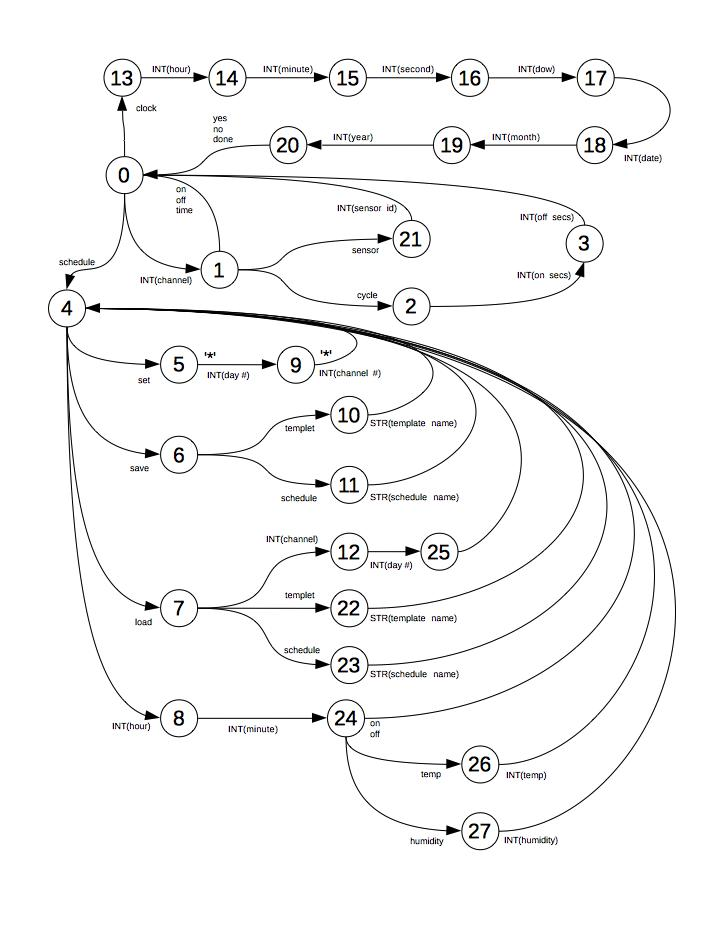
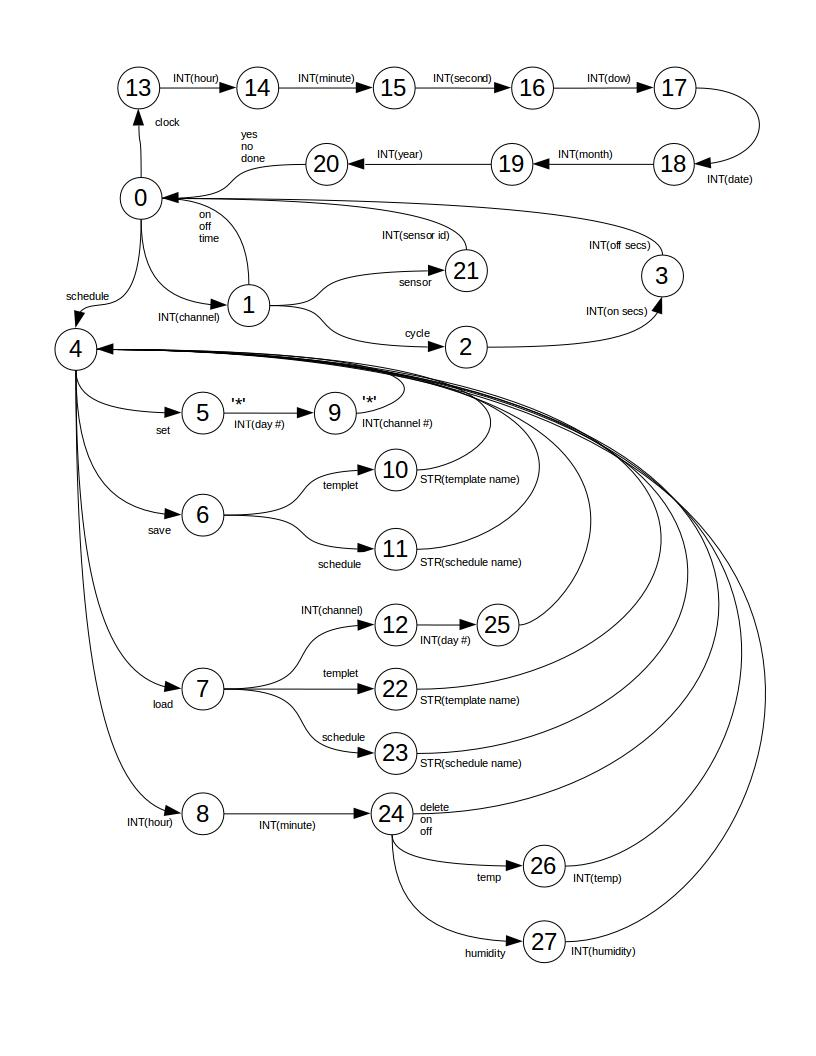
schedule maint mostly working

diff --git a/BBB/lib-sources/cmd_fsm.c b/BBB/lib-sources/cmd_fsm.c
@@ -176,31 +176,31 @@ char    *keyword[_CMD_TOKENS] = {
 /* cmd processor state transition table */
 int cmd_new_state[_CMD_TOKENS][_CMD_STATES] = {
 	/*                       0   1   2   3   4   5   6   7   8   9  10  11  12  13  14  15  16  17  18  19  20  21  22  23  24  25  26  27*/
-	/*  0  temp        */  { 0,  1,  2,  3,  4,  5,  6,  7,  8,  0,  0,  0,  0, 13,  0,  0,  0,  0,  0,  0,  0, 21,  0,  0, 26,  0,  0,  0},
-	/*  1  *           */  { 0,  1,  2,  3,  4,  5,  6,  8,  9,  0,  0,  0,  0, 13,  0,  0,  0,  0,  0,  0,  0, 21,  0,  0, 27,  0,  0, 27},
-	/*  2  humid       */  { 0,  1,  2,  3,  4,  0,  0,  0,  8,  0,  0,  0,  0, 13,  0,  0,  0,  0,  0,  0,  0, 21,  0,  0,  0,  0,  0,  0},
-	/*  3  schedule    */  { 4,  1,  2,  3,  4,  0,  0,  0,  8,  0,  0,  0,  0, 13,  0,  0,  0,  0,  0,  0,  0, 21,  0,  0,  0,  0,  0, 27},
+	/*  0  temp        */  { 0,  1,  2,  3,  4,  5,  6,  7,  8,  0,  0,  0,  0, 13,  0,  0,  0,  0,  0,  0,  0, 21,  0,  0, 26,  0, 26, 27},
+	/*  1  *           */  { 0,  1,  2,  3,  4,  5,  6,  8,  9,  0,  0,  0,  0, 13,  0,  0,  0,  0,  0,  0,  0, 21,  0,  0, 24,  0, 26, 27},
+	/*  2  humid       */  { 0,  1,  2,  3,  4,  0,  0,  0,  8,  0,  0,  0,  0, 13,  0,  0,  0,  0,  0,  0,  0, 21,  0,  0, 27,  0, 26, 27},
+	/*  3  schedule    */  { 4,  1,  2,  3,  4,  0,  0,  0,  8,  0,  0,  0,  0, 13,  0,  0,  0,  0,  0,  0,  0, 21,  0,  0, 24,  0, 26, 27},
 	/*  4  ?           */  { 0,  1,  2,  3,  4,  5,  6,  7,  8,  9, 10, 11, 12, 13, 14, 15, 16, 17, 18, 19, 20, 21, 22, 23, 24, 25, 26, 27},
 	/*  5  clock       */  {13,  1,  2,  3,  4,  5,  6,  7,  8,  9, 10, 11, 12, 13, 14, 15, 16, 17, 18, 19, 20, 21, 22, 23, 24, 25, 26, 27},
-	/*  6  yes         */  { 0,  1,  0,  3,  4,  4,  4,  0,  0,  0,  0,  6,  4, 13,  0,  0,  0,  0,  0,  0,  0, 21,  0,  0,  0,  0,  0, 27},
-	/*  7  cancel      */  { 0,  0,  0,  0,  0,  0,  4,  4,  7,  0,  0,  0,  4,  0,  0,  0,  0,  0,  0,  0,  0,  0,  0,  0,  0,  0,  0,  0},
-	/*  8  replace     */  { 0,  1,  2,  3,  4,  5,  6,  0,  8,  0,  0,  0,  0, 13,  0,  0,  0,  0,  0,  0,  0, 21,  0,  0,  0,  0,  0,  0},
-	/*  9  edit        */  { 0,  1,  2,  3,  4,  5,  6,  7,  8,  0,  0,  0,  0, 13,  0,  0,  0,  0,  0,  0,  0, 21,  0,  0,  0,  0,  0,  0},
-	/* 10  delete      */  { 0,  1,  2,  3,  4,  5,  4,  7,  8,  0,  0,  0,  6, 13,  0,  0,  0,  0,  0,  0,  0, 21,  0,  0,  4,  0,  0,  0},
-	/* 11  zero        */  { 0,  1,  2,  3,  4,  5,  6,  7,  8,  0,  0,  0,  0, 13,  0,  0,  0,  0,  0,  0,  0, 21,  0,  0,  0,  0,  0,  0},
-	/* 12  on          */  { 0,  0,  2,  3,  4,  5,  6,  7,  8,  0,  0,  0,  6, 13,  0,  0,  0,  0,  0,  0,  0, 21,  0,  0,  4,  0,  0,  0},
-	/* 13  off         */  { 0,  0,  2,  3,  4,  5,  6,  7,  8,  0,  0,  0,  6, 13,  0,  0,  0,  0,  0,  0,  0, 21,  0,  0,  4,  0,  0,  0},
-	/* 14  clear       */  { 0,  1,  2,  3,  4,  5,  6,  7,  8,  0,  0,  0,  0, 13,  0,  0,  0,  0,  0,  0,  0, 21,  0,  0,  0,  0,  0,  0},
+	/*  6  yes         */  { 0,  1,  0,  3,  4,  4,  4,  0,  0,  0,  0,  6,  4, 13,  0,  0,  0,  0,  0,  0,  0, 21,  0,  0, 24,  0, 26, 27},
+	/*  7  cancel      */  { 0,  0,  0,  0,  0,  0,  4,  4,  4,  4,  4,  4,  4,  0,  0,  0,  0,  0,  0,  0,  0,  0,  0,  0,  8,  0,  8,  8},
+	/*  8  replace     */  { 0,  1,  2,  3,  4,  5,  6,  0,  8,  0,  0,  0,  0, 13,  0,  0,  0,  0,  0,  0,  0, 21,  0,  0, 24,  0, 26, 27},
+	/*  9  edit        */  { 0,  1,  2,  3,  4,  5,  6,  7,  8,  0,  0,  0,  0, 13,  0,  0,  0,  0,  0,  0,  0, 21,  0,  0, 24,  0, 26, 27},
+	/* 10  delete      */  { 0,  1,  2,  3,  4,  5,  4,  7,  8,  0,  0,  0,  6, 13,  0,  0,  0,  0,  0,  0,  0, 21,  0,  0,  4,  0, 26, 27},
+	/* 11  zero        */  { 0,  1,  2,  3,  4,  5,  6,  7,  8,  0,  0,  0,  0, 13,  0,  0,  0,  0,  0,  0,  0, 21,  0,  0, 24,  0, 26, 27},
+	/* 12  on          */  { 0,  0,  2,  3,  4,  5,  6,  7,  8,  0,  0,  0,  6, 13,  0,  0,  0,  0,  0,  0,  0, 21,  0,  0,  4,  0, 26, 27},
+	/* 13  off         */  { 0,  0,  2,  3,  4,  5,  6,  7,  8,  0,  0,  0,  6, 13,  0,  0,  0,  0,  0,  0,  0, 21,  0,  0,  4,  0, 26, 27},
+	/* 14  clear       */  { 0,  1,  2,  3,  4,  5,  6,  7,  8,  0,  0,  0,  0, 13,  0,  0,  0,  0,  0,  0,  0, 21,  0,  0, 24,  0, 26, 27},
 	/* 15  status      */  { 0,  1,  2,  3,  4,  5,  6,  7,  8,  9, 10, 11, 12, 13, 14, 15, 16, 17, 18, 19, 20, 21, 22, 23, 24, 25, 26, 27},
 	/* 16  time        */  { 0,  1,  2,  3,  4,  5,  6,  7,  8,  9, 10, 11, 12, 13, 14, 15, 16, 17, 18, 19, 20, 21, 22, 23, 24, 25, 26, 27},
-	/* 17  sensor      */  { 0, 21,  2,  3,  4,  5,  6,  7,  8,  0,  0,  0,  0, 13,  0,  0,  0,  0,  0,  0,  0, 21,  0,  0,  0,  0,  0,  0},
-	/* 18  cycle       */  { 0,  2,  2,  3,  4,  5,  6,  7,  8,  0,  0,  0,  0, 13,  0,  0,  0,  0,  0,  0,  0, 21,  0,  0,  0,  0,  0,  0},
-	/* 19  startup     */  { 0,  1,  2,  3,  4,  5,  6,  7,  8,  0,  0,  0,  0, 13,  0,  0,  0,  0,  0,  0,  0, 21,  0,  0,  0,  0,  0,  0},
-	/* 20  display     */  { 0,  1,  2,  3,  4,  5,  6,  7,  8,  0,  0,  0,  0, 13,  0,  0,  0,  0,  0,  0,  0, 21,  0,  0,  0,  0,  0,  0},
-	/* 21  save        */  { 6,  1,  2,  3,  4,  5,  4,  5,  8,  0,  0,  0,  0, 13,  0,  0,  0,  0,  0,  0,  0, 21,  0,  0,  0,  0,  0,  0},
-	/* 22  template    */  { 0,  1,  2,  3,  4,  5,  6,  7,  8,  0,  0,  0,  0, 13,  0,  0,  0,  0,  0,  0,  0, 21,  0,  0,  0,  0,  0,  0},
-	/* 23  channel     */  { 0,  1,  2,  3,  4,  5,  6,  7,  8,  0,  0,  0,  0, 13,  0,  0,  0,  0,  0,  0,  0, 21,  0,  0,  0,  0,  0,  0},
-	/* 24  load        */  { 0,  1,  2,  3,  4,  5,  6,  7,  8,  0,  0,  0,  0, 13,  0,  0,  0,  0,  0,  0,  0, 21,  0,  0,  0,  0,  0,  0},
+	/* 17  sensor      */  { 0, 21,  2,  3,  4,  5,  6,  7,  8,  0,  0,  0,  0, 13,  0,  0,  0,  0,  0,  0,  0, 21,  0,  0, 24,  0, 26, 27},
+	/* 18  cycle       */  { 0,  2,  2,  3,  4,  5,  6,  7,  8,  0,  0,  0,  0, 13,  0,  0,  0,  0,  0,  0,  0, 21,  0,  0, 24,  0, 26, 27},
+	/* 19  startup     */  { 0,  1,  2,  3,  4,  5,  6,  7,  8,  0,  0,  0,  0, 13,  0,  0,  0,  0,  0,  0,  0, 21,  0,  0, 24,  0, 26, 27},
+	/* 20  display     */  { 0,  1,  2,  3,  4,  5,  6,  7,  8,  0,  0,  0,  0, 13,  0,  0,  0,  0,  0,  0,  0, 21,  0,  0, 24,  0, 26, 27},
+	/* 21  save        */  { 6,  1,  2,  3,  4,  5,  4,  5,  8,  0,  0,  0,  0, 13,  0,  0,  0,  0,  0,  0,  0, 21,  0,  0, 24,  0, 26, 27},
+	/* 22  template    */  { 0,  1,  2,  3,  4,  5,  6,  7,  8,  0,  0,  0,  0, 13,  0,  0,  0,  0,  0,  0,  0, 21,  0,  0, 24,  0, 26, 27},
+	/* 23  channel     */  { 0,  1,  2,  3,  4,  5,  6,  7,  8,  0,  0,  0,  0, 13,  0,  0,  0,  0,  0,  0,  0, 21,  0,  0, 24,  0, 26, 27},
+	/* 24  load        */  { 0,  1,  2,  3,  4,  5,  6,  7,  8,  0,  0,  0,  0, 13,  0,  0,  0,  0,  0,  0,  0, 21,  0,  0, 24,  0, 26, 27},
 	/* 25  set         */  { 0,  1,  2,  3,  4,  5,  6,  7,  8,  9, 10, 11, 12, 13, 14, 15, 16, 17, 18, 19, 20, 21, 22, 23, 24, 25, 26, 27},
 	/* 26  q           */  { 0,  1,  0,  0,  0,  0,  0,  0,  8,  0,  0,  0,  0, 13,  0,  0,  0,  0,  0,  0,  0,  0,  0,  0,  0,  0,  0,  0},
 	/* 27  done        */  { 0,  0,  0,  0,  0,  0,  4,  0,  0,  0,  0,  6,  4,  0,  0,  0,  0,  0,  0,  0,  0,  0,  0,  0,  0,  0,  4,  4},
@@ -211,9 +211,9 @@ int cmd_new_state[_CMD_TOKENS][_CMD_STATES] = {
 	/* 32 disp_wrk_sch */  { 0,  1,  2,  3,  4,  5,  6,  7,  8,  9, 10, 11, 12, 13, 14, 15, 16, 17, 18, 19, 20, 21, 22, 23, 24, 25, 26, 27},
 	/* 33 disp_sch_lib */  { 0,  1,  2,  3,  4,  5,  6,  7,  8,  9, 10, 11, 12, 13, 14, 15, 16, 17, 18, 19, 20, 21, 22, 23, 24, 25, 26, 27},
 	/* 34 disp_tml_lib */  { 0,  1,  2,  3,  4,  5,  6,  7,  8,  9, 10, 11, 12, 13, 14, 15, 16, 17, 18, 19, 20, 21, 22, 23, 24, 25, 26, 27},
-	/* 35  INT         */  { 1,  1,  3,  0,  8,  6, 11,  8, 24,  7,  0, 12,  0, 14, 15, 16, 17, 18, 19, 20,  0,  0,  0,  0,  0,  0,  0,  0},
-	/* 36  STR         */  { 0,  0,  2,  3,  4,  5,  6,  7,  8,  0,  0,  0,  0, 13,  0,  0,  0,  0,  0,  0,  0, 21,  0,  0,  0,  0,  0,  0},
-	/* 37  OTHER       */  { 0,  1,  2,  3,  4,  5,  6,  7,  8,  9, 10, 11, 12, 13, 14, 15, 16,  0,  0,  0,  0, 21,  0,  0,  0,  0,  0,  0}};
+	/* 35  INT         */  { 1,  1,  3,  0,  8,  6, 11,  8, 24,  7,  0, 12,  0, 14, 15, 16, 17, 18, 19, 20,  0,  0,  0,  0, 24,  0,  4,  4},
+	/* 36  STR         */  { 0,  0,  2,  3,  4,  5,  6,  7,  8,  0,  0,  0,  0, 13,  0,  0,  0,  0,  0,  0,  0, 21,  0,  0, 24,  0, 26, 27},
+	/* 37  OTHER       */  { 0,  1,  2,  3,  4,  5,  6,  7,  8,  9, 10, 11, 12, 13, 14, 15, 16,  0,  0,  0,  0, 21,  0,  0, 24,  0, 26, 27}};
 
 /*cmd processor functions */
 int c_0(_CMD_FSM_CB *); /* nop */
@@ -243,8 +243,8 @@ int c_23(_CMD_FSM_CB *); /* set set schedule record to off */
 int c_24(_CMD_FSM_CB *); /* delete schedule record */
 int c_25(_CMD_FSM_CB *); /* save schedule template */
 int c_26(_CMD_FSM_CB *); /* delete schedule template */
-int c_27(_CMD_FSM_CB *); /* edit template */
-int c_28(_CMD_FSM_CB *); /* enter schedule maintenance mode */
+int c_27(_CMD_FSM_CB *); /* update temperature in a schedule record */
+int c_28(_CMD_FSM_CB *); /* update humidity in a schedule record */
 int c_29(_CMD_FSM_CB *); /* set working channel */
 int c_30(_CMD_FSM_CB *); /* set working day */
 int c_31(_CMD_FSM_CB *); /* set working channel to all */
@@ -306,7 +306,7 @@ CMD_ACTION_PTR cmd_action[_CMD_TOKENS][_CMD_STATES] = {
 	/* 32 disp_wrk_sch */  { c_7,  c_7,  c_7,  c_7,  c_7,  c_7,  c_7,  c_7,  c_7,  c_7,  c_7,  c_7,  c_7,  c_7,  c_7,  c_7,  c_7,  c_7,  c_7,  c_7,  c_7,  c_7,  c_7,  c_7,  c_7,  c_7,  c_7,  c_7},
 	/* 33 disp_sch_lib */  { c_7,  c_7,  c_7,  c_7,  c_7,  c_7,  c_7,  c_7,  c_7,  c_7,  c_7,  c_7,  c_7,  c_7,  c_7,  c_7,  c_7,  c_7,  c_7,  c_7,  c_7,  c_7,  c_7,  c_7,  c_7,  c_7,  c_7,  c_7},
 	/* 34 disp_tml_lib */  { c_7,  c_7,  c_7,  c_7,  c_7,  c_7,  c_7,  c_7,  c_7,  c_7,  c_7,  c_7,  c_7,  c_7,  c_7,  c_7,  c_7,  c_7,  c_7,  c_7,  c_7,  c_7,  c_7,  c_7,  c_7,  c_7,  c_7,  c_7},
-	/* 35  INT         */  { c_4,  c_7, c_16, c_17, c_20,  c_7, c_20, c_29, c_21, c_35, c_33, c_21,  c_7, c_41, c_42, c_43, c_44, c_45, c_46, c_47,  c_7, c_49,  c_7,  c_7,  c_7,  c_7,  c_0,  c_0},
+	/* 35  INT         */  { c_4,  c_7, c_16, c_17, c_20,  c_7, c_20, c_29, c_21, c_35, c_33, c_21,  c_7, c_41, c_42, c_43, c_44, c_45, c_46, c_47,  c_7, c_49,  c_7,  c_7,  c_7,  c_7, c_27, c_28},
 	/* 36  STR         */  { c_7,  c_5,  c_7,  c_7,  c_7,  c_7,  c_7,  c_7,  c_7,  c_7,  c_7,  c_7,  c_7,  c_7,  c_7,  c_7,  c_7,  c_7,  c_7,  c_7,  c_7,  c_7,  c_7,  c_7,  c_7,  c_7,  c_7,  c_7},
 	/* 37  OTHER       */  { c_8,  c_7,  c_7,  c_7,  c_7,  c_7,  c_7,  c_8,  c_7,  c_7,  c_7,  c_7,  c_7,  c_7,  c_7,  c_7,  c_7,  c_7,  c_7,  c_7,  c_7,  c_7,  c_7,  c_7,  c_7,  c_7,  c_7,  c_7}};
 
@@ -1099,70 +1099,61 @@ int c_26(_CMD_FSM_CB *cb)
 	return 0;
 }
 
-/* edit schedule template */
+/* update temperature in a schedule record */
 int c_27(_CMD_FSM_CB *cb)
 {
-
-	// char            temp[_PROMPT_BUFFER_SIZE];
-	// int             i;
-
-	// cb->w_template_index = cb->token_value;
-	// strcpy((char *)cb->w_schedule_name, cb->sdat_ptr->s_data[cb->w_template_index].name);
-
-	// for (i = 0; i < _SCHEDULE_SIZE; i++) {
-	// 	cb->w_schedule[i]  = cb->sdat_ptr->s_data[cb->w_template_index].schedule[i];   //load schedule
-	// }
-	// strcpy((char *)cb->w_schedule_name, cb->sdat_ptr->s_data[cb->w_template_index].name);      //load name
+	int 			i;
+	int 			key;
+	_S_REC 			hold;
 
 
+	key = cb->w_hours * 60 + cb->w_minutes;
 
-	// /* build prompt */
-	// strcpy(cb->prompt_buffer, "editing schedule template: ");
-	// strcat(cb->prompt_buffer, (char *)cb->w_schedule_name);
-	// strcat(cb->prompt_buffer, "\r\n");
-	// strcat(cb->prompt_buffer, sch2text(&cb->w_schedule, temp));
-	// // strcat(cb->prompt_buffer,"\r\n  enter action for ");
-	// // strcat(cb->prompt_buffer,cb->w_hours_str);
-	// // strcat(cb->prompt_buffer,":");
-	// // strcat(cb->prompt_buffer,cb->w_minutes_str);
-	// strcat(cb->prompt_buffer, "\r\n  enter time (HH,MM) > ");
+	/* serch for key in a schedule */
+	i = find_tmpl_key(&cb->w_template_buffer, cb->w_hours, cb->w_minutes);
+	if(i != -1)
+		hold = cb->w_template_buffer.rec[i];
+	else{
+		hold.state = 0;
+		hold.humid = 0;
+	}
+
+	/* add new schedule record */
+	add_tmpl_rec(&cb->w_template_buffer, cb->w_hours, cb->w_minutes, hold.state, cb->token_value, hold.humid);
+
+	/*build prompt */
+	strcpy(cb->prompt_buffer, "\0");
+	load_temps(&cb->w_template_buffer, cb->prompt_buffer);
+	strcat(cb->prompt_buffer, "\r\n editing schedule buffer, enter command or time");
 	return 0;
 }
 
-/* enter schedule build mode */
+/* update humidity in a schedule record*/
 int c_28(_CMD_FSM_CB *cb)
 {
-	// int             i, ii;
-	// int             max_name_size;
-	// char            buf[128];
-	// char            pad[_SCHEDULE_NAME_SIZE];
-	// int             pad_size;
+	int 			i;
+	int 			key;
+	_S_REC 			hold;
 
-	// max_name_size = 0;
-	// for (i = 0; i < cb->sdat_ptr->schlib_index; i++)
-	// 	if (max_name_size < strlen(cb->sdat_ptr->schlib_index))
-	// 		max_name_size = strlen(cb->sdat_ptr->schlib_index);
 
-	// printf("\r\nediting system schedule\r\n\ntemplate library\r\n");
-	// for (i = 0; i < cb->sdat_ptr->schlib_index; i++) {
-	// 	pad_size = max_name_size - strlen(cb->sdat_ptr->schlib_index);
-	// 	pad[0] = '\0';
-	// 	for (ii = 0; ii < pad_size; ii++)
-	// 		strcat(pad, " ");
-	// 	printf("    %i - %s%s  %s\r\n", i, cb->sdat_ptr->schlib_index, pad, sch2text2(&cb->sdat_ptr->s_data[i].schedule, buf));
-	// }
+	key = cb->w_hours * 60 + cb->w_minutes;
 
-	// /* load working schedule from system schedule */
-	// // printf(" size of schedule buffer = %i\r\n",sizeof(cmd_fsm_cb.w_sch));
-	// memcpy(cmd_fsm_cb.w_sch_ptr, cmd_fsm_cb.sdat_ptr->sch_ptr, sizeof(cmd_fsm_cb.w_sch));
-	// printf("\r\nsystem schedule copied to edit buffer\r\n");
-	// printf("copy of the system schedule\r\n");
-	// disp_all_schedules(&cb->sdat_ptr->sys_sch);
-	*cb->prompt_buffer = '\0';
-	strcpy(cmd_fsm_cb.prompt_buffer, "\r curent schedule buffer:\r\n");
+	/* serch for key in a schedule */
+	i = find_tmpl_key(&cb->w_template_buffer, cb->w_hours, cb->w_minutes);
+	if(i != -1)
+		hold = cb->w_template_buffer.rec[i];
+	else{
+		hold.state = 0;
+		hold.temp = 0;
+	}
+
+	/* add new schedule record */
+	add_tmpl_rec(&cb->w_template_buffer, cb->w_hours, cb->w_minutes, hold.state,hold.temp, cb->token_value);
+
+	/*build prompt */
+	strcpy(cb->prompt_buffer, "\0");
 	load_temps(&cb->w_template_buffer, cb->prompt_buffer);
-	strcat(cmd_fsm_cb.prompt_buffer, "\n\r editing schedule buffer, enter command or time HH:MM");
-
+	strcat(cb->prompt_buffer, "\r\n editing schedule buffer, enter command or time");
 	return 0;
 }
 

diff --git a/BBB/lib-sources/sch.c b/BBB/lib-sources/sch.c
@@ -15,22 +15,22 @@
 #include "sys_dat.h"
 
 /* return a pointer to a schedule rec for a given key, day & channel */
-_S_REC *get_sch_rec(_S_TAB *sch, int day, int channel, int hour, int minute){
-    int             i;
-    int             key;
+// _S_REC *get_sch_rec(_S_TAB *sch, int day, int channel, int hour, int minute){
+//     int             i;
+//     int             key;
 
-    printf(" hour %i, minute %i\n", hour, minute);
-    key = (hour * 60) + minute;
-    for (i = 0; i < sch->schedule[day][channel].rcnt; i++){
-        printf("  key from rec %i test key %i\n", sch->schedule[day][channel].rec[i].key, key); 
-        if(sch->schedule[day][channel].rec[i].key == key){
-            printf("key match\n");
-            return &(sch->schedule[day][channel].rec[i]);
-        }
-    }
-    printf("no key match\n");
-    return NULL;
-}
+//     printf(" hour %i, minute %i\n", hour, minute);
+//     key = (hour * 60) + minute;
+//     for (i = 0; i < sch->schedule[day][channel].rcnt; i++){
+//         printf("  key from rec %i test key %i\n", sch->schedule[day][channel].rec[i].key, key); 
+//         if(sch->schedule[day][channel].rec[i].key == key){
+//             printf("key match\n");
+//             return &(sch->schedule[day][channel].rec[i]);
+//         }
+//     }
+//     printf("no key match\n");
+//     return NULL;
+// }
 
 /* delete a schedule record */
 int del_sch_rec2(_S_TAB *sch, int day, int channel, int hour, int minute){
@@ -49,7 +49,7 @@ int del_sch_rec2(_S_TAB *sch, int day, int channel, int hour, int minute){
     return 1;
 }
 
-/* serch for key in a schedule */
+/* serch for record in a schedule, return record number of match or -1 if no hit */
 int find_tmpl_key(_TMPL_DAT *t, int hour, int minute){
 	int 				i, key;
 
@@ -241,7 +241,7 @@ int add_tmpl_rec(_TMPL_DAT *t, int hour, int minute, int state, int temp, int hu
 //     return 0;
 // }
 
-/* update humiduty in schedule record */
+/* set humiduty in schedule record */
 // int up_sch_rec_humid(_S_TAB *sch, int day, int channel, int hour, int minute, int humid){
 //     _S_REC              *hrec_ptr, hrec;
 
@@ -254,7 +254,7 @@ int add_tmpl_rec(_TMPL_DAT *t, int hour, int minute, int state, int temp, int hu
 //     return 0;
 // }
 
-/* update temperature in schedule record */
+/* set temperature in schedule record */
 // int up_sch_rec_temp(_S_TAB *sch, int day, int channel, int hour, int minute, int temp){
 //     _S_REC              *hrec_ptr, hrec;
 
@@ -276,17 +276,17 @@ int con_key(int key,int *hour,int *minute){
 }
 
 /* print the schedule for a (day,channel) */
-int dump_schedule(_S_TAB *sch, int day, int channel){
-    int             i,h,m;
-    printf("  dumping schedule for day %i channel %i ", day, channel);
-    printf("    rcnt = %i\n", sch->schedule[day][channel].rcnt);
-    for(i=0;i<sch->schedule[day][channel].rcnt;i++){
-        con_key(sch->schedule[day][channel].rec[i].key,&h,&m);
-        printf("    %02i:%02i - state %i temp %i humid %i\n",
-            h,m,sch->schedule[day][channel].rec[i].state,sch->schedule[day][channel].rec[i].temp, sch->schedule[day][channel].rec[i].humid);
-    }
-    return 0;
-}
+// int dump_schedule(_S_TAB *sch, int day, int channel){
+//     int             i,h,m;
+//     printf("  dumping schedule for day %i channel %i ", day, channel);
+//     printf("    rcnt = %i\n", sch->schedule[day][channel].rcnt);
+//     for(i=0;i<sch->schedule[day][channel].rcnt;i++){
+//         con_key(sch->schedule[day][channel].rec[i].key,&h,&m);
+//         printf("    %02i:%02i - state %i temp %i humid %i\n",
+//             h,m,sch->schedule[day][channel].rec[i].state,sch->schedule[day][channel].rec[i].temp, sch->schedule[day][channel].rec[i].humid);
+//     }
+//     return 0;
+// }
 
 /* print a template schedule */
 int dump_template(_TMPL_DAT *t_sch){
@@ -301,23 +301,21 @@ int dump_template(_TMPL_DAT *t_sch){
     return 0;
 }
 
-/* append template records to string */
+/* append template record list to string */
 int load_temps(_TMPL_DAT *t_sch, char *b){
     int             i,h,m;
     char 			tbuff[_PROMPT_BUFFER_SIZE];
-    // printf("\rappending     rcnt = %i\n", t_sch->rcnt);
+
     if(t_sch->rcnt < 1){
     	strcat(b, "    no records in schedule");
     	return 0;
     }
-
     for(i=0;i<t_sch->rcnt;i++){
         con_key(t_sch->rec[i].key,&h,&m);
         sprintf(tbuff,"\r    %02i:%02i - state %i temp %i humid %i\r\n",
         	h,m,t_sch->rec[i].state,t_sch->rec[i].temp, t_sch->rec[i].humid);
         strcat(b, tbuff);
     }
-    // strcat(b, "\r\n  enter time (HH,MM)");
     return 0;
 }
 

diff --git a/BBB/include/shared.h b/BBB/include/shared.h
@@ -4,7 +4,7 @@
 /* version info */
 #define _MAJOR_VERSION		8
 #define _MINOR_VERSION 		2
-#define _MINOR_REVISION		7
+#define _MINOR_REVISION		8
 
 /* file names */
 #define _FILE_NAME_SIZE 		50
